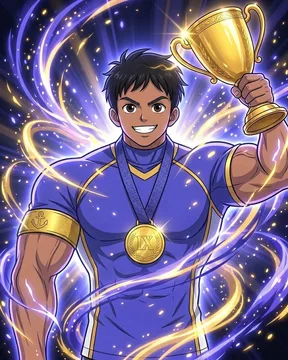
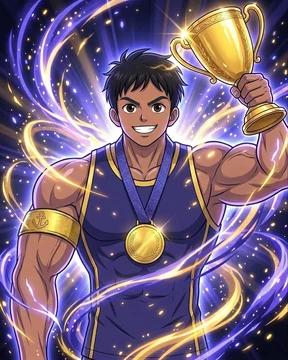
Kilitli seviyeler soluk önizlemeyle görünür; Mert 5-10 kolsuz forma

diff --git a/index.html b/index.html
@@ -1357,7 +1357,8 @@
     .avatar-card > div:first-child, .avatar-card > div:first-child svg { width: 100%; height: 100%; display: block; border-radius: 26px; overflow: hidden; }
     .avatar-card.locked-preview > div:first-child svg { filter: grayscale(1) brightness(0.3); }
     .avatar-card > div:first-child .av-img { border-radius: 26px; }
-    .avatar-card.locked-preview > div:first-child .av-img img { filter: brightness(0); opacity: 0.4; }
+    .avatar-card.locked-preview > div:first-child .av-img img { filter: grayscale(0.55) brightness(0.7); }
+    .avatar-card.locked-preview .avatar-lock { justify-content: flex-end; padding-bottom: 14px; }
     .avatar-glare {
       position: absolute;
       inset: 0;
@@ -1417,7 +1418,8 @@
       background: #18181b;
     }
     .tier-item.locked .av svg { filter: grayscale(1) brightness(0.32); }
-    .tier-item.locked .av .av-img img { filter: brightness(0); opacity: 0.35; }
+    .tier-item.locked .av .av-img img { filter: grayscale(0.6) brightness(0.55); }
+    .tier-item.locked .av::after { align-items: flex-end !important; justify-content: flex-end !important; padding: 0 3px 2px 0; font-size: 0.8rem !important; }
     .tier-item.locked .av::after {
       content: '🔒';
       position: absolute;
@@ -3274,7 +3276,7 @@
       if (set) {
         let bg = '#18181b', ln = 'rgba(255,255,255,0.12)';
         try { const F = AvatarArt.frame(tier); bg = `linear-gradient(${F.bg1}, ${F.bg2})`; ln = F.m[1]; } catch (e) {}
-        return `<div class="av-img" style="background:${bg};box-shadow:inset 0 0 0 2px ${ln}"><img src="avatars/${set}/${tier}.webp?v=2" alt="" decoding="async" onerror="avatarImgFail(this, ${tier})"></div>`;
+        return `<div class="av-img" style="background:${bg};box-shadow:inset 0 0 0 2px ${ln}"><img src="avatars/${set}/${tier}.webp?v=3" alt="" decoding="async" onerror="avatarImgFail(this, ${tier})"></div>`;
       }
       return avatarSvgOnly(tier);
     }

diff --git a/sw.js b/sw.js
@@ -1,6 +1,6 @@
-const CACHE_NAME = 'workout-v15';
+const CACHE_NAME = 'workout-v16';
 const ASSETS = ['./', './index.html', './figures.js', './tracker.js', './cloud.js', './charts.js', './avatar.js', './manifest.json', './icon-192.png', './icon-512.png', './1dk.mp3?v=2', './30s.mp3?v=2', './15s.mp3?v=2', './5s.mp3?v=2'];
-const AVATARS = ['melih', 'mert'].flatMap((s) => Array.from({ length: 11 }, (_, i) => `./avatars/${s}/${i}.webp?v=2`));
+const AVATARS = ['melih', 'mert'].flatMap((s) => Array.from({ length: 11 }, (_, i) => `./avatars/${s}/${i}.webp?v=3`));
 const NAV_TIMEOUT_MS = 3500;
 
 self.addEventListener('install', (e) => {
